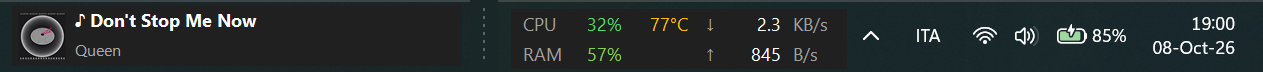
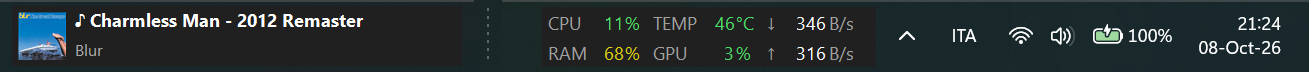
Document the settings window and refresh screenshots
Update the README and the website with the new Settings feature, new
screenshots (taskbar, stats widget, now playing, settings window and its
drop-down list), the current executable size and memory use, and two FAQ
entries. Make internal links work when the pages are opened from disk and
redirect common mistyped addresses (/FAQ, /faq.html) to the FAQ page.

diff --git a/docs/index.html b/docs/index.html
@@ -4,7 +4,7 @@
   <meta charset="utf-8">
   <meta name="viewport" content="width=device-width, initial-scale=1">
   <title>Taskbar Monitor: network speed, CPU and RAM on your Windows taskbar</title>
-  <meta name="description" content="Taskbar Monitor is a free, open-source Windows overlay that shows live download and upload speed, CPU, RAM, CPU temperature and the track you are playing, right on the taskbar. One 25 KB file, no installer.">
+  <meta name="description" content="Taskbar Monitor is a free, open-source Windows overlay that shows live download and upload speed, CPU, RAM, CPU temperature and the track you are playing, right on the taskbar. One 37 KB file, no installer.">
   <link rel="canonical" href="https://alessandrozappatore.github.io/TaskbarMonitor/">
   <meta name="theme-color" content="#14181c" media="(prefers-color-scheme: dark)">
   <meta name="theme-color" content="#fafaf8" media="(prefers-color-scheme: light)">
@@ -13,7 +13,7 @@
   <meta property="og:type" content="website">
   <meta property="og:site_name" content="Taskbar Monitor">
   <meta property="og:title" content="Taskbar Monitor: network speed, CPU and RAM on your Windows taskbar">
-  <meta property="og:description" content="Free, open-source overlay for the Windows taskbar. Live network speed, CPU, RAM, temperature and now playing. One 25 KB file, no installer, no telemetry.">
+  <meta property="og:description" content="Free, open-source overlay for the Windows taskbar. Live network speed, CPU, RAM, temperature and now playing. One 37 KB file, no installer, no telemetry.">
   <meta property="og:url" content="https://alessandrozappatore.github.io/TaskbarMonitor/">
   <meta property="og:image" content="https://alessandrozappatore.github.io/TaskbarMonitor/og-image.png">
   <meta property="og:image:width" content="1200">
@@ -21,7 +21,7 @@
   <meta property="og:image:alt" content="A Windows taskbar showing the now-playing widget on the left and CPU, RAM, temperature and network speed next to the clock.">
   <meta name="twitter:card" content="summary_large_image">
   <meta name="twitter:title" content="Taskbar Monitor: network speed, CPU and RAM on your Windows taskbar">
-  <meta name="twitter:description" content="Free, open-source overlay for the Windows taskbar. One 25 KB file, no installer, no telemetry.">
+  <meta name="twitter:description" content="Free, open-source overlay for the Windows taskbar. One 37 KB file, no installer, no telemetry.">
   <meta name="twitter:image" content="https://alessandrozappatore.github.io/TaskbarMonitor/og-image.png">
 
   <link rel="stylesheet" href="style.css">
@@ -61,7 +61,7 @@
   <main>
     <div class="wrap hero">
       <h1>Network speed, CPU, RAM and music on your Windows taskbar</h1>
-      <p class="lead">Taskbar Monitor is a small overlay that sits on the taskbar and shows what your PC is doing right now. One 25&nbsp;KB file, no installer, nothing sent anywhere.</p>
+      <p class="lead">Taskbar Monitor is a small overlay that sits on the taskbar and shows what your PC is doing right now. One 37&nbsp;KB file, no installer, nothing sent anywhere.</p>
       <div class="actions">
         <a class="btn primary" id="download" href="https://github.com/AlessandroZappatore/TaskbarMonitor/releases/latest/download/TaskbarMonitor.exe">Download for Windows</a>
         <a class="btn" href="https://github.com/AlessandroZappatore/TaskbarMonitor">View source on GitHub</a>
@@ -69,15 +69,15 @@
       <p class="meta">Free and open source (MIT) &middot; Windows 10 and 11, 64-bit &middot; <span id="version">latest release</span></p>
 
       <figure class="shot">
-        <img src="taskbar.png" width="1263" height="72" alt="A Windows 11 taskbar. On the left, a widget with the cover, title and artist of the playing song. Next to the clock, CPU 32%, 77 degrees, RAM 57%, download 2.3 KB/s and upload 845 B/s.">
+        <img src="taskbar.png" width="1309" height="72" alt="A Windows 11 taskbar. On the left, a widget with the cover, title and artist of the playing song. Next to the clock, the stats widget shows CPU 11%, temperature 46 degrees, RAM 68%, GPU 3%, download 346 B/s and upload 316 B/s.">
         <figcaption>Both widgets on a Windows 11 taskbar. The middle of the taskbar is omitted.</figcaption>
       </figure>
     </div>
 
     <div class="wrap">
       <dl class="facts" aria-label="Key facts">
-        <div><dt>25 KB</dt><dd>single executable</dd></div>
-        <div><dt>~50 MB</dt><dd>of RAM in use</dd></div>
+        <div><dt>37 KB</dt><dd>single executable</dd></div>
+        <div><dt>~60 MB</dt><dd>of RAM in use</dd></div>
         <div><dt>0</dt><dd>network connections made</dd></div>
         <div><dt>MIT</dt><dd>license, free to use</dd></div>
       </dl>
@@ -90,19 +90,49 @@
         <div class="two">
           <div>
             <h3>System stats</h3>
-            <p>Next to the notification area: download and upload speed, CPU load and temperature, and RAM usage. Values go from green to yellow to red as load or temperature rise.</p>
+            <p>Next to the notification area: up to six values that you choose, such as download and upload speed, CPU load and temperature, or RAM usage. Values go from green to yellow to red as load or temperature rise.</p>
             <figure class="shot">
-              <img src="screenshot-stats.png" width="337" height="63" alt="Widget showing CPU 8%, 49 degrees, RAM 62%, download 264 B/s, upload 220 B/s." loading="lazy">
+              <img src="screenshot-stats.png" width="334" height="60" alt="Widget showing CPU 11%, temperature 46 degrees, RAM 68%, GPU 3%, download 346 B/s and upload 316 B/s." loading="lazy">
             </figure>
           </div>
           <div>
             <h3>Now playing</h3>
             <p>At the left of the taskbar: cover art, title and artist of whatever is playing in Spotify, a browser tab, VLC and other media apps. Click it to play or pause. It disappears when nothing is playing.</p>
             <figure class="shot">
-              <img src="screenshot-media.png" width="462" height="66" alt="Widget showing the cover, title and artist of the current song." loading="lazy">
+              <img src="screenshot-media.png" width="450" height="60" alt="Widget showing the cover, title and artist of the current song." loading="lazy">
             </figure>
           </div>
         </div>
+
+        <h3 id="choose" style="margin-top:2.5rem">Choose what to show</h3>
+        <p>Open <em>Settings</em> from the right-click menu. The stats widget has six positions, in three columns of two. Pick a value for each one or leave it empty, and the widget updates right away. A column with two empty positions disappears, so the widget only takes the space it needs. Labels and units change with the value you pick.</p>
+        <div class="two">
+          <figure class="shot bare">
+            <img src="screenshot-settings.png" width="713" height="338" alt="The Settings window with six drop-down lists arranged in three columns of two: CPU usage, RAM usage, CPU temperature, GPU usage, download speed and upload speed." loading="lazy">
+            <figcaption>The Settings window: one drop-down per position.</figcaption>
+          </figure>
+          <figure class="shot bare">
+            <img src="screenshot-settings-options.png" width="713" height="620" alt="A drop-down list open in the Settings window, showing every available value: download speed, upload speed, CPU usage, CPU temperature, RAM usage, RAM used, disk activity, disk read speed, disk write speed, disk free space, GPU usage, battery and PC uptime." loading="lazy">
+            <figcaption>Every value you can pick, or leave the position empty.</figcaption>
+          </figure>
+        </div>
+        <figure class="shot" style="margin:2rem 0 1.5rem">
+          <img src="screenshot-stats-disk.png" width="401" height="60" alt="Widget showing disk activity 0%, free space 130 GB, read speed 0 B/s, write speed 144 KB/s, battery 100% and uptime 7 hours 2 minutes." loading="lazy">
+          <figcaption>Another setup: disk activity, free space, read and write speed, battery and uptime.</figcaption>
+        </figure>
+        <table>
+          <thead><tr><th scope="col">Value</th><th scope="col">Shown as</th></tr></thead>
+          <tbody>
+            <tr><td>Download and upload speed</td><td><code>&darr; 264 B/s</code> &nbsp; <code>&uarr; 1.2 MB/s</code></td></tr>
+            <tr><td>CPU usage and temperature</td><td><code>CPU 12%</code> &nbsp; <code>TEMP 53&deg;C</code></td></tr>
+            <tr><td>RAM, as a percentage or in GB</td><td><code>RAM 65%</code> &nbsp; <code>RAM 10.6 GB</code></td></tr>
+            <tr><td>Disk activity, read and write speed, free space</td><td><code>DISK 3%</code> &nbsp; <code>READ 44 KB/s</code> &nbsp; <code>FREE 131 GB</code></td></tr>
+            <tr><td>GPU usage</td><td><code>GPU 7%</code></td></tr>
+            <tr><td>Battery</td><td><code>BAT 85%</code></td></tr>
+            <tr><td>PC uptime</td><td><code>UP 6:45 h</code></td></tr>
+          </tbody>
+        </table>
+        <p class="small muted">Only the values you select are measured. The default is CPU, RAM, temperature, download and upload.</p>
 
         <h3 style="margin-top:2.5rem">Details</h3>
         <ul class="plain">
@@ -124,7 +154,7 @@
           <li>Double-click it. The widgets appear on the taskbar. Right-click either one to open the menu, where you can turn on <em>Start with Windows</em>.</li>
         </ol>
         <div class="note">
-          <p><strong>SmartScreen warning.</strong> The executable is not code-signed, so Windows may say &ldquo;Windows protected your PC&rdquo;. Click <em>More info</em>, then <em>Run anyway</em>. If you prefer not to run a downloaded file, the whole program is one readable source file and builds with the compiler that ships with Windows. See <a href="#source">build from source</a>.</p>
+          <p><strong>SmartScreen warning.</strong> The executable is not code-signed, so Windows may say &ldquo;Windows protected your PC&rdquo;. Click <em>More info</em>, then <em>Run anyway</em>. If you prefer not to run a downloaded file, the whole program is a few small, readable source files and builds with the compiler that ships with Windows. See <a href="#source">build from source</a>.</p>
         </div>
         <p>To remove it, turn off <em>Start with Windows</em>, choose <em>Exit</em> and delete the file. Nothing else is installed.</p>
       </div>
@@ -139,6 +169,8 @@
             <tr><td>Network speed</td><td>Byte counters of all active network adapters, sampled every second.</td></tr>
             <tr><td>CPU and RAM</td><td>The same Windows counters Task Manager is built on.</td></tr>
             <tr><td>Temperature</td><td>The thermal zone reported by the system (ACPI). It is not a per-core reading, so it can differ from tools such as HWiNFO. If your PC does not expose it, the widget shows <code>--</code>.</td></tr>
+            <tr><td>Disk and GPU</td><td>Windows performance counters. GPU usage takes the busiest engine type, the way Task Manager does, and shows <code>--</code> if Windows does not expose it on your PC.</td></tr>
+            <tr><td>Battery and uptime</td><td>Windows power status and the system tick counter.</td></tr>
             <tr><td>Now playing</td><td>Windows media controls, the same ones used by the keyboard media keys and the volume flyout.</td></tr>
           </tbody>
         </table>
@@ -178,6 +210,18 @@ build.bat</code></pre>
       .then(function (r) { return r.ok ? r.json() : null; })
       .then(function (j) { if (j && j.tag_name) document.getElementById("version").textContent = "version " + j.tag_name.replace(/^v/, ""); })
       .catch(function () {});
+  </script>
+  <script>
+    // Se la pagina e' aperta come file dal disco (file://), i link a cartelle come "faq/" non aprono index.html.
+    // In quel caso aggiunge index.html ai link relativi. Sul sito pubblicato non fa nulla.
+    if (location.protocol === "file:") {
+      document.querySelectorAll("a[href]").forEach(function (a) {
+        var h = a.getAttribute("href");
+        if (/^[a-z][a-z0-9+.-]*:|^\/\/|^#/i.test(h)) return;
+        var i = h.indexOf("#"), path = i < 0 ? h : h.slice(0, i), hash = i < 0 ? "" : h.slice(i);
+        if (path === "" || /\/$/.test(path)) a.setAttribute("href", path + "index.html" + hash);
+      });
+    }
   </script>
 </body>
 </html>

diff --git a/docs/faq/index.html b/docs/faq/index.html
@@ -37,7 +37,7 @@
           {
             "@type": "Question",
             "name": "Why does Windows show a SmartScreen warning?",
-            "acceptedAnswer": { "@type": "Answer", "text": "The executable is not code-signed, because code-signing certificates cost money and this is a free hobby project. Windows warns about any unsigned program that few people have downloaded. Click More info, then Run anyway. The program is a single readable source file that you can build yourself with build.bat, using the compiler included with Windows." }
+            "acceptedAnswer": { "@type": "Answer", "text": "The executable is not code-signed, because code-signing certificates cost money and this is a free hobby project. Windows warns about any unsigned program that few people have downloaded. Click More info, then Run anyway. The program is a few small, readable source files that you can build yourself with build.bat, using the compiler included with Windows." }
           },
           {
             "@type": "Question",
@@ -53,6 +53,16 @@
             "@type": "Question",
             "name": "How do I hide the widgets and bring them back?",
             "acceptedAnswer": { "@type": "Answer", "text": "Right-click a widget and choose Hide widgets. To show them again, click the Taskbar Monitor icon in the notification area, press Ctrl+Alt+M, open TaskbarMonitor.exe again, or right-click the tray icon and choose Show widgets. The tray icon may be inside the arrow menu next to the clock; drag it onto the taskbar to keep it always visible." }
+          },
+          {
+            "@type": "Question",
+            "name": "Can I choose what the widget shows?",
+            "acceptedAnswer": { "@type": "Answer", "text": "Yes. Right-click a widget and choose Settings. The stats widget has six positions in three columns of two. For each one you can pick download speed, upload speed, CPU usage, CPU temperature, RAM usage or used GB, disk activity, disk read or write speed, free space on the system drive, GPU usage, battery or PC uptime, or leave it empty. Changes apply immediately and empty columns disappear, so the widget only takes the space it needs." }
+          },
+          {
+            "@type": "Question",
+            "name": "Why does the GPU or temperature show two dashes?",
+            "acceptedAnswer": { "@type": "Answer", "text": "Two dashes mean Windows does not expose that value on your PC through the counters Taskbar Monitor uses. GPU usage relies on the GPU Engine performance counters, which need a recent graphics driver. Temperature relies on an ACPI thermal zone. Battery also shows two dashes on a PC without a battery." }
           },
           {
             "@type": "Question",
@@ -110,7 +120,7 @@
 
       <h2 id="smartscreen">Why does Windows show a SmartScreen warning?</h2>
       <p>The executable is not code-signed, because code-signing certificates cost money and this is a free hobby project. Windows warns about any unsigned program that few people have downloaded. Click <em>More info</em>, then <em>Run anyway</em>.</p>
-      <p>If you would rather not run a downloaded file, the program is a single readable source file. Build it yourself with <code>build.bat</code>, using the compiler included with Windows.</p>
+      <p>If you would rather not run a downloaded file, the program is a few small, readable source files. Build it yourself with <code>build.bat</code>, using the compiler included with Windows.</p>
 
       <h2 id="internet">Does Taskbar Monitor connect to the internet?</h2>
       <p>No. It makes no network connections, has no telemetry and no accounts. It only reads local counters and stores its settings in the registry under <code>HKEY_CURRENT_USER\Software\TaskbarMonitor</code>.</p>
@@ -127,6 +137,12 @@
         <li>Right-click the tray icon and choose <em>Show widgets</em>.</li>
       </ul>
       <p>The tray icon may be inside the <code>^</code> menu next to the clock. Drag it onto the taskbar to keep it always visible.</p>
+
+      <h2 id="choose">Can I choose what the widget shows?</h2>
+      <p>Yes. Right-click a widget and choose <em>Settings</em>. The stats widget has six positions in three columns of two. For each one you can pick download speed, upload speed, CPU usage, CPU temperature, RAM usage or used GB, disk activity, disk read or write speed, free space on the system drive, GPU usage, battery or PC uptime, or leave it empty. Changes apply immediately and empty columns disappear, so the widget only takes the space it needs.</p>
+
+      <h2 id="dashes">Why does the GPU or temperature show two dashes?</h2>
+      <p>Two dashes mean Windows does not expose that value on your PC through the counters Taskbar Monitor uses. GPU usage relies on the <em>GPU Engine</em> performance counters, which need a recent graphics driver. Temperature relies on an ACPI thermal zone. Battery also shows two dashes on a PC without a battery.</p>
 
       <h2 id="players">Which players does the now-playing widget support?</h2>
       <p>Any app that uses the Windows media controls: Spotify, YouTube and other sites in Chrome or Edge, VLC and many others. If a track shows up in the Windows volume flyout, it will show up in the widget. Cover art depends on what the app provides.</p>
@@ -154,5 +170,17 @@
       <span><a href="../">Home</a> &middot; <a href="https://github.com/AlessandroZappatore/TaskbarMonitor/releases">Releases</a> &middot; <a href="https://github.com/AlessandroZappatore/TaskbarMonitor/issues">Report an issue</a></span>
     </div>
   </footer>
+  <script>
+    // Se la pagina e' aperta come file dal disco (file://), i link a cartelle come "faq/" non aprono index.html.
+    // In quel caso aggiunge index.html ai link relativi. Sul sito pubblicato non fa nulla.
+    if (location.protocol === "file:") {
+      document.querySelectorAll("a[href]").forEach(function (a) {
+        var h = a.getAttribute("href");
+        if (/^[a-z][a-z0-9+.-]*:|^\/\/|^#/i.test(h)) return;
+        var i = h.indexOf("#"), path = i < 0 ? h : h.slice(0, i), hash = i < 0 ? "" : h.slice(i);
+        if (path === "" || /\/$/.test(path)) a.setAttribute("href", path + "index.html" + hash);
+      });
+    }
+  </script>
 </body>
 </html>

diff --git a/docs/404.html b/docs/404.html
@@ -7,6 +7,20 @@
   <meta name="robots" content="noindex">
   <link rel="icon" href="/TaskbarMonitor/favicon.svg" type="image/svg+xml">
   <link rel="stylesheet" href="/TaskbarMonitor/style.css">
+  <script>
+    // Indirizzi che la gente digita a mano (maiuscole, .html, ...) portano alla pagina giusta.
+    (function () {
+      var base = "/TaskbarMonitor", key = base.toLowerCase();
+      var p = location.pathname.toLowerCase().replace(/\/+$/, "");
+      var map = {};
+      map[key + "/faq"] = base + "/faq/";
+      map[key + "/faq.html"] = base + "/faq/";
+      map[key + "/faq/index.html"] = base + "/faq/";
+      map[key + "/index.html"] = base + "/";
+      map[key] = base + "/";
+      if (map[p]) location.replace(map[p] + location.hash);
+    })();
+  </script>
 </head>
 <body>
   <main class="faq">

diff --git a/docs/style.css b/docs/style.css
@@ -130,6 +130,7 @@ kbd { border: 1px solid var(--line); border-bottom-width: 2px; }
   border: 1px solid var(--line);
   border-radius: 8px;
 }
+.shot.bare img { border: 0; border-radius: 0; }
 .shot figcaption { margin-top: 0.6rem; color: var(--muted); font-size: 0.92rem; }
 .hero .shot { margin-top: 2.75rem; }
 

diff --git a/README.md b/README.md
@@ -4,18 +4,23 @@
 
 A tiny, free and open-source Windows overlay that shows **live network speed, CPU, RAM, CPU temperature and the currently playing track** right on your taskbar.
 
-- Single ~25 KB executable, no installer, no runtime to install
-- Uses ~50 MB of RAM and practically 0% CPU
+- Single ~37 KB executable, no installer, no runtime to install
+- Uses ~60 MB of RAM and practically 0% CPU
 - No network access, no telemetry, no accounts
 
-![Stats overlay](docs/screenshot-stats.png)
+![Taskbar with both widgets](docs/taskbar.png)
+
+| Stats widget (6 values) | Another setup (disk, battery, uptime) |
+| --- | --- |
+| ![Stats overlay](docs/screenshot-stats.png) | ![Stats overlay showing disk values](docs/screenshot-stats-disk.png) |
+
 ![Now playing overlay](docs/screenshot-media.png)
 
 ## Features
 
 | Overlay | What it shows |
 | --- | --- |
-| **Stats** (bottom right, next to the system tray) | Download / upload speed, CPU %, CPU temperature, RAM % |
+| **Stats** (bottom right, next to the system tray) | Up to 6 values that **you choose**: network speed, CPU, temperature, RAM, disk, GPU, battery, uptime (see [Choosing what to show](#choosing-what-to-show)) |
 | **Now playing** (bottom left) | Cover art, title and artist of whatever is playing (Spotify, YouTube in the browser, VLC, ...). Click it to play/pause |
 
 - Fixed-position columns: values never jump around when they change.
@@ -35,13 +40,14 @@ A tiny, free and open-source Windows overlay that shows **live network speed, CP
 
 > **Windows SmartScreen:** the executable is not code-signed, so Windows may show a
 > "Windows protected your PC" warning. Click **More info** then **Run anyway**.
-> If you prefer, you can read the (single-file) source in [`src/`](src/TaskbarMonitor.cs) and
+> If you prefer, you can read the (small) source in [`src/`](src/) and
 > [build it yourself](#build-from-source) in a few seconds.
 
 ## Usage
 
 Right-click either overlay (or the tray icon next to the clock) to open the menu:
 
+- **Settings...**: choose what the stats widget shows (see below).
 - **Hide widgets** / **Show widgets**: hides or restores both overlays.
 - **Start with Windows**: toggles automatic startup (stored in the current user's `Run` registry key).
 - **Show now playing**: shows or hides the now-playing overlay.
@@ -51,6 +57,29 @@ Right-click either overlay (or the tray icon next to the clock) to open the menu
 Drag the stats overlay with the left mouse button to move it. Left-click the now-playing overlay to play/pause.
 
 If you move the `.exe` to another folder after enabling *Start with Windows*, toggle the option off and on again so the startup entry points to the new location.
+
+### Choosing what to show
+
+Open **Settings...** from the menu. The stats widget has **6 positions**, laid out in 3 columns of 2. Pick any value for each position, or leave it empty. Changes apply immediately.
+
+| Settings window | Every available value |
+| --- | --- |
+| ![Settings window](docs/screenshot-settings.png) | ![Settings drop-down list](docs/screenshot-settings-options.png) |
+ A column with two empty positions disappears and the widget gets narrower, so it never takes more space than it needs. Labels and units change with the value you pick.
+
+| Value | Shown as |
+| --- | --- |
+| Download / upload speed | `↓ 264 B/s`, `↑ 1.2 MB/s` |
+| CPU usage | `CPU 12%` |
+| CPU temperature | `TEMP 53°C` |
+| RAM usage / RAM used | `RAM 65%` / `RAM 10.6 GB` |
+| Disk activity, read speed, write speed | `DISK 3%`, `READ 44.0 KB/s`, `WRITE 128.1 KB/s` |
+| Disk free space (system drive) | `FREE 131 GB` |
+| GPU usage | `GPU 7%` |
+| Battery | `BAT 85%` (green when plugged in, red when low) |
+| PC uptime | `UP 6:45 h` or `UP 3d 4 h` |
+
+Each value can appear only once: choosing one that is already used swaps the two positions. Percentages, temperature and battery change color from green to yellow to red. Only the values you select are measured, so the others cost nothing. The default is CPU, RAM, temperature, download and upload.
 
 ### Hiding and showing the widgets
 
@@ -85,6 +114,9 @@ This produces `TaskbarMonitor.exe` in the repository folder.
 
 - **Network speed**: byte counters of all active, non-loopback network interfaces, sampled every second.
 - **CPU / RAM**: `GetSystemTimes` and `GlobalMemoryStatusEx` (Win32).
+- **Disk**: the *PhysicalDisk* performance counters (activity, read and write bytes per second) and free space of the system drive.
+- **GPU**: the *GPU Engine* performance counters, taking the busiest engine type like Task Manager does. Shown as `--` if Windows does not expose them.
+- **Battery / uptime**: Windows power status and `GetTickCount64`.
 - **CPU temperature**: the *Thermal Zone Information* performance counter (ACPI thermal zones). This is the temperature reported by the system, **not** a per-core reading, so it can differ from tools like HWiNFO or HWMonitor. If your machine does not expose a thermal zone, the value is shown as `--`.
 - **Now playing**: the Windows *System Media Transport Controls* (the same API behind the media flyout and keyboard media keys), so any app that integrates with it works.
 - **Overlay**: a borderless, non-activating, always-on-top window owned by the taskbar window. Windows 11 no longer supports third-party taskbar toolbars, so an overlay is the most reliable approach. Because Windows always keeps an owned window above its owner, the overlay rises together with the taskbar when the Start menu or other flyouts open, without polling the z-order (no flicker). If Explorer restarts, the overlay re-attaches automatically.
